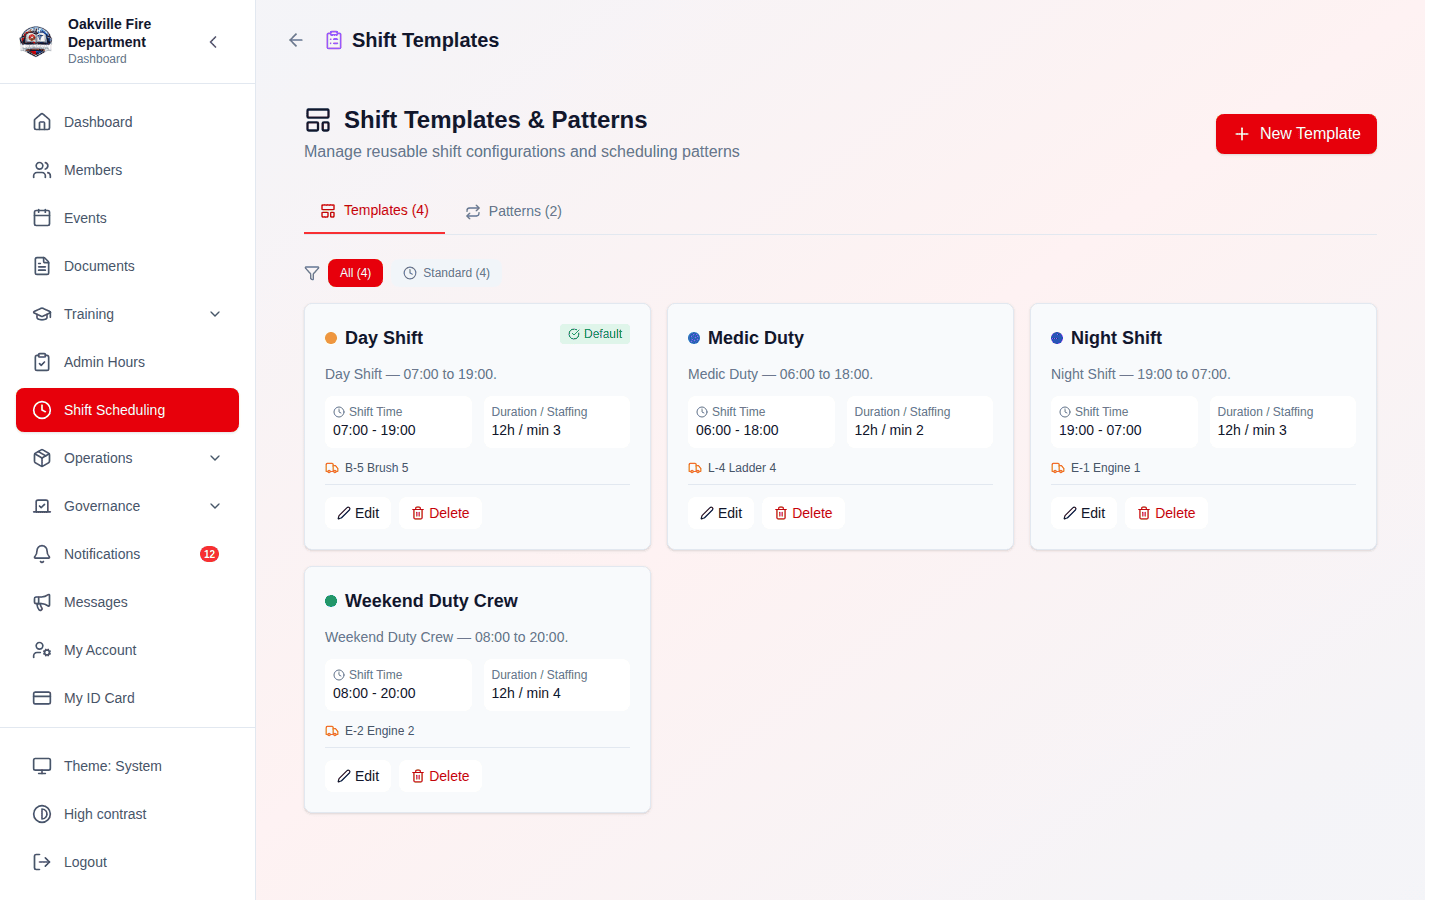
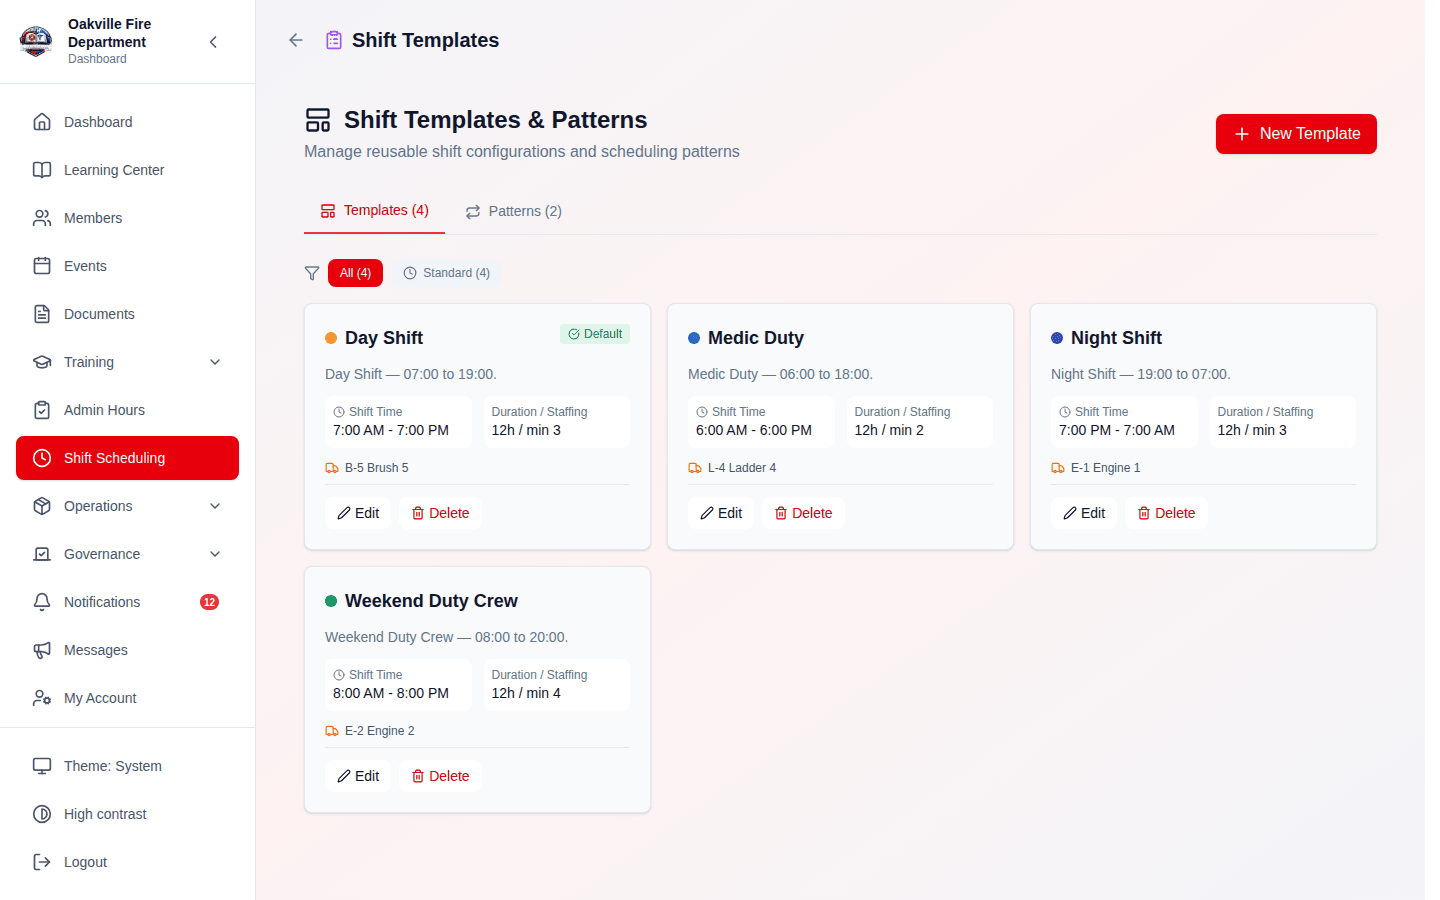
Tell the two inventory ledgers apart, and stop guessing at shot numbers
The items grid claims a lot-stocked Qty is distinguishable from a plain pool
count, and `05-53-items-grid-lot-stock` — added when the supply data did not yet
exist — was a bare route visit that showed whichever kind the fold happened to
land on. It now filters to a term matching both and uses a frame tall enough
that the last row in view is a whole row: Epinephrine and Gauze annotated
"in-date lots" beside uniform rows showing a plain pool figure. The figures
agree with the item detail (Naloxone 10 across 2 lots, Gauze 34 ready).

**Three numbering mistakes in one tick, each caught by the picture or the
manifest rather than by care.** I added a second entry for a placeholder that
already had one, and twice picked an id whose numeric prefix was already taken —
`05-57`, `05-58`, `05-60` and `05-61` are all in use, which breaks
`--only 05-5x`. My earlier survey of the 05 shots was truncated to 20 rows, so I
never saw them. The duplicate entry is folded into the one that was already
there; the stock-tab shot is renumbered to a number computed from the manifest
rather than guessed. The loop's note now says to compute a free number, not
recall one.

Re-captured the two shift-template shots main's `TemplateFormModal` rework
staled — it derives the duration from the start and end times now instead of
asking a third time, and picks a named colour instead of a hex field. Both read
correctly: the template cards carry their colour, apparatus and duration, and
[…]

diff --git a/docs/training/05-inventory.md b/docs/training/05-inventory.md
@@ -658,8 +658,7 @@ pool count beside it, and the CSV export carries the same number in its own
 which ledger it came from, so a number that disagrees with the item's Quantity
 field reads as the count that matters rather than as a bug.
 
-> **Screenshot needed:**
-> _[Screenshot of the inventory items grid with two consumable rows visible — one showing a Qty figure annotated "in-date lots" and one showing a plain pool figure — so the two ledgers can be told apart]_
+![Items grid showing a lot-stocked Qty labelled "in-date lots" beside a plain pool figure](./images/05-53-items-grid-lot-stock.png)
 
 > **Why the two disagree.** For anything kept as dated stock, the item's
 > **Quantity** field is not maintained at all: receiving a lot does not touch it,
@@ -727,7 +726,7 @@ apparatus**: the checklist positions this item fills, which apparatus and
 compartment each one is, what that truck is carrying right now, and the soonest
 expiration aboard.
 
-![An item's Stock Lots tab: the shelf lots above, and the checklist positions carrying it below](./images/05-58-item-stock-deployed.png)
+![An item's Stock Lots tab: the shelf lots above, and the checklist positions carrying it below](./images/05-07-item-stock-deployed.png)
 
 This is the direction a **recall** is worked from — you are holding the item and
 need to know which rigs to go to. The opposite direction ("what is expiring on my

diff --git a/docs/training/SCREENSHOT_STATUS.md b/docs/training/SCREENSHOT_STATUS.md
@@ -9,7 +9,7 @@ image still matches the application is tracked by hand in
 [SCREENSHOT_CURRENCY.md](./SCREENSHOT_CURRENCY.md) — this file is
 regenerated wholesale, so that audit cannot live here.
 
-**369 of 486 placeholders filled** (117 remaining).
+**370 of 486 placeholders filled** (116 remaining).
 
 | Guide | Captured | Remaining |
 |-------|---------:|----------:|
@@ -18,7 +18,7 @@ regenerated wholesale, so that audit cannot live here.
 | [02-training.md](./02-training.md) | 65 | 12 |
 | [03-scheduling.md](./03-scheduling.md) | 53 | 16 |
 | [04-events-meetings.md](./04-events-meetings.md) | 27 | 14 |
-| [05-inventory.md](./05-inventory.md) | 40 | 13 |
+| [05-inventory.md](./05-inventory.md) | 41 | 12 |
 | [06-apparatus-facilities.md](./06-apparatus-facilities.md) | 14 | 7 |
 | [07-documents-forms.md](./07-documents-forms.md) | 13 | 0 |
 | [08-admin-reports.md](./08-admin-reports.md) | 36 | 8 |
@@ -32,5 +32,5 @@ regenerated wholesale, so that audit cannot live here.
 | [16-integrations.md](./16-integrations.md) | 4 | 8 |
 | [17-privacy-data-rights.md](./17-privacy-data-rights.md) | 2 | 0 |
 | [18-storefront.md](./18-storefront.md) | 4 | 1 |
-| **Total** | **369** | **117** |
+| **Total** | **370** | **116** |
 
